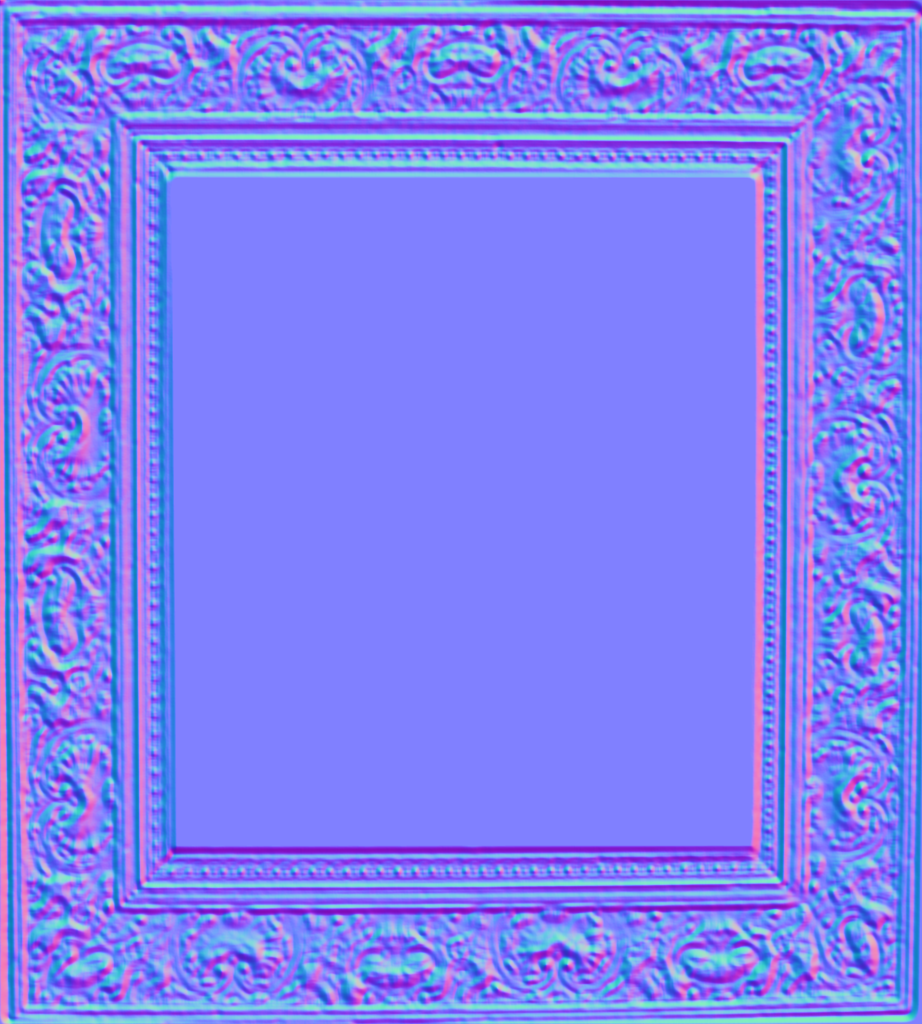
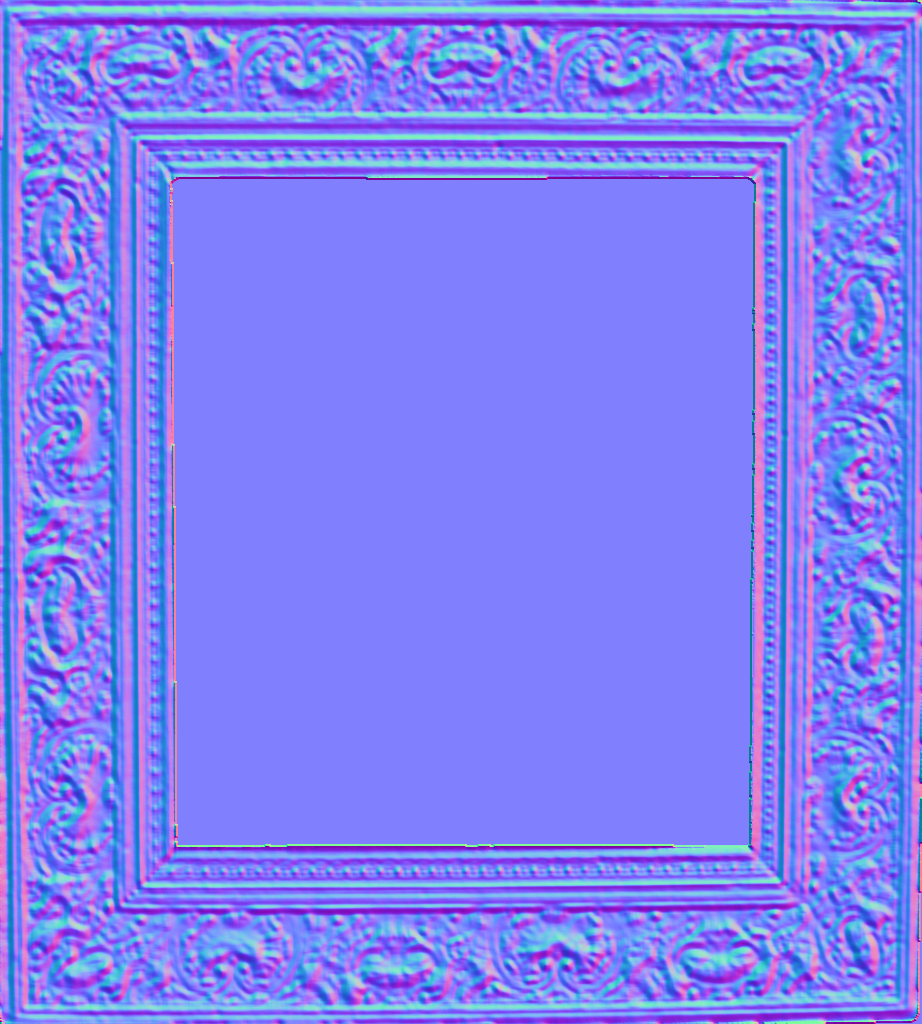
Clean up f2 frame edges: cut white center + background to transparent
The Baroque frame photo leaked white at the inner opening and outer edge
(shot slightly off-axis on a white ground). Flood-fill the centre opening
and the outer background to transparent, trim, and regenerate the aligned
normal map. Opening detection switched to centre-out so it finds the
opening only (ignores the now-transparent outer border). Outer corners
read as the wall (purple) instead of white.

diff --git a/src/components/gallery/NineSliceFrame.tsx b/src/components/gallery/NineSliceFrame.tsx
@@ -32,60 +32,32 @@ function detectOpening(img: HTMLImageElement): Slice | null {
   } catch {
     return null; // tainted canvas
   }
-  const at = (x: number, y: number) => {
+  // The opening is the CONTIGUOUS region at the image centre that is either
+  // transparent (cut-out PNG) or near-white (flat JPG). Expand outward from the
+  // middle so we ignore any transparent/white OUTSIDE the frame (cut-out borders).
+  const open = (x: number, y: number) => {
     const i = (y * W + x) * 4;
-    return { r: data[i], g: data[i + 1], b: data[i + 2], a: data[i + 3] };
+    const a = data[i + 3];
+    if (a < 40) return true;
+    return data[i] > 236 && data[i + 1] > 236 && data[i + 2] > 236;
   };
-
-  // 1) transparent centre → global bbox of alpha<40 pixels
-  let minX = W,
-    minY = H,
-    maxX = 0,
-    maxY = 0,
-    found = false;
-  const step = Math.max(1, Math.floor(Math.min(W, H) / 320));
-  for (let y = 0; y < H; y += step) {
-    for (let x = 0; x < W; x += step) {
-      if (data[(y * W + x) * 4 + 3] < 40) {
-        found = true;
-        if (x < minX) minX = x;
-        if (x > maxX) maxX = x;
-        if (y < minY) minY = y;
-        if (y > maxY) maxY = y;
-      }
-    }
-  }
-
-  // 2) white centre → expand from the middle while pixels stay near-white
-  if (!found) {
-    const cx = (W / 2) | 0;
-    const cy = (H / 2) | 0;
-    const white = (x: number, y: number) => {
-      const p = at(x, y);
-      return p.a > 200 && p.r > 236 && p.g > 236 && p.b > 236;
-    };
-    if (!white(cx, cy)) return null;
-    let l = cx,
-      r = cx,
-      t = cy,
-      b = cy;
-    while (l > 0 && white(l - 1, cy)) l--;
-    while (r < W - 1 && white(r + 1, cy)) r++;
-    while (t > 0 && white(cx, t - 1)) t--;
-    while (b < H - 1 && white(cx, b + 1)) b++;
-    minX = l;
-    maxX = r;
-    minY = t;
-    maxY = b;
-    found = true;
-  }
-
-  if (!found || maxX <= minX || maxY <= minY) return null;
+  const cx = (W / 2) | 0;
+  const cy = (H / 2) | 0;
+  if (!open(cx, cy)) return null;
+  let l = cx,
+    r = cx,
+    t = cy,
+    b = cy;
+  while (l > 0 && open(l - 1, cy)) l--;
+  while (r < W - 1 && open(r + 1, cy)) r++;
+  while (t > 0 && open(cx, t - 1)) t--;
+  while (b < H - 1 && open(cx, b + 1)) b++;
+  if (r <= l || b <= t) return null;
   return {
-    su0: minX / W,
-    su1: maxX / W,
-    vTop: 1 - minY / H, // image top → high V (flipY textures)
-    vBottom: 1 - maxY / H,
+    su0: l / W,
+    su1: r / W,
+    vTop: 1 - t / H, // image top → high V (flipY textures)
+    vBottom: 1 - b / H,
   };
 }
 

diff --git a/src/app/frametest/page.tsx b/src/app/frametest/page.tsx
@@ -27,7 +27,7 @@ export default function FrameTestPage() {
       <hemisphereLight args={["#fff4e6", "#2a2030", 0.5]} />
       <directionalLight position={[-3, 2.5, 3]} intensity={2.2} color="#fff2e0" />
       <Suspense fallback={null}>
-        <Framed url="/frames/f2-avantrend233.jpg" normalUrl="/frames/f2-normal.png" fw={0.13} pw={1.4} ph={1.0} x={-2.0} />
+        <Framed url="/frames/f2-avantrend233.png" normalUrl="/frames/f2-normal.png" fw={0.13} pw={1.4} ph={1.0} x={-2.0} />
         <Framed url="/frames/f3-anaterate.png" normalUrl="/frames/f3-normal.png" fw={0.11} pw={1.4} ph={1.0} x={0} />
         <Framed url="/frames/f4-susannp4.png" normalUrl="/frames/f4-normal.png" fw={0.075} pw={1.4} ph={1.0} x={2.0} />
       </Suspense>

diff --git a/src/components/gallery/FrameBuilders.tsx b/src/components/gallery/FrameBuilders.tsx
@@ -337,7 +337,7 @@ export interface FrameTexture {
   edgeColor?: number; // side-wall colour
 }
 export const FRAME_TEXTURES: Record<string, FrameTexture> = {
-  baroque_gold: { url: "/frames/f2-avantrend233.jpg", normalUrl: "/frames/f2-normal.png", frameWidth: 0.13, depth: 0.05, edgeColor: 0xa6823c }, // ornate Baroque gilt
+  baroque_gold: { url: "/frames/f2-avantrend233.png", normalUrl: "/frames/f2-normal.png", frameWidth: 0.13, depth: 0.05, edgeColor: 0xa6823c }, // ornate Baroque gilt (cut-out PNG)
   raw_wood: { url: "/frames/f3-anaterate.png", normalUrl: "/frames/f3-normal.png", frameWidth: 0.11, depth: 0.05, edgeColor: 0x6a4f2c }, // rustic bronze/wood, rope molding
   copper_slim: { url: "/frames/f4-susannp4.png", normalUrl: "/frames/f4-normal.png", frameWidth: 0.075, depth: 0.035, edgeColor: 0x9c7a38 }, // simple slim gilt
 };